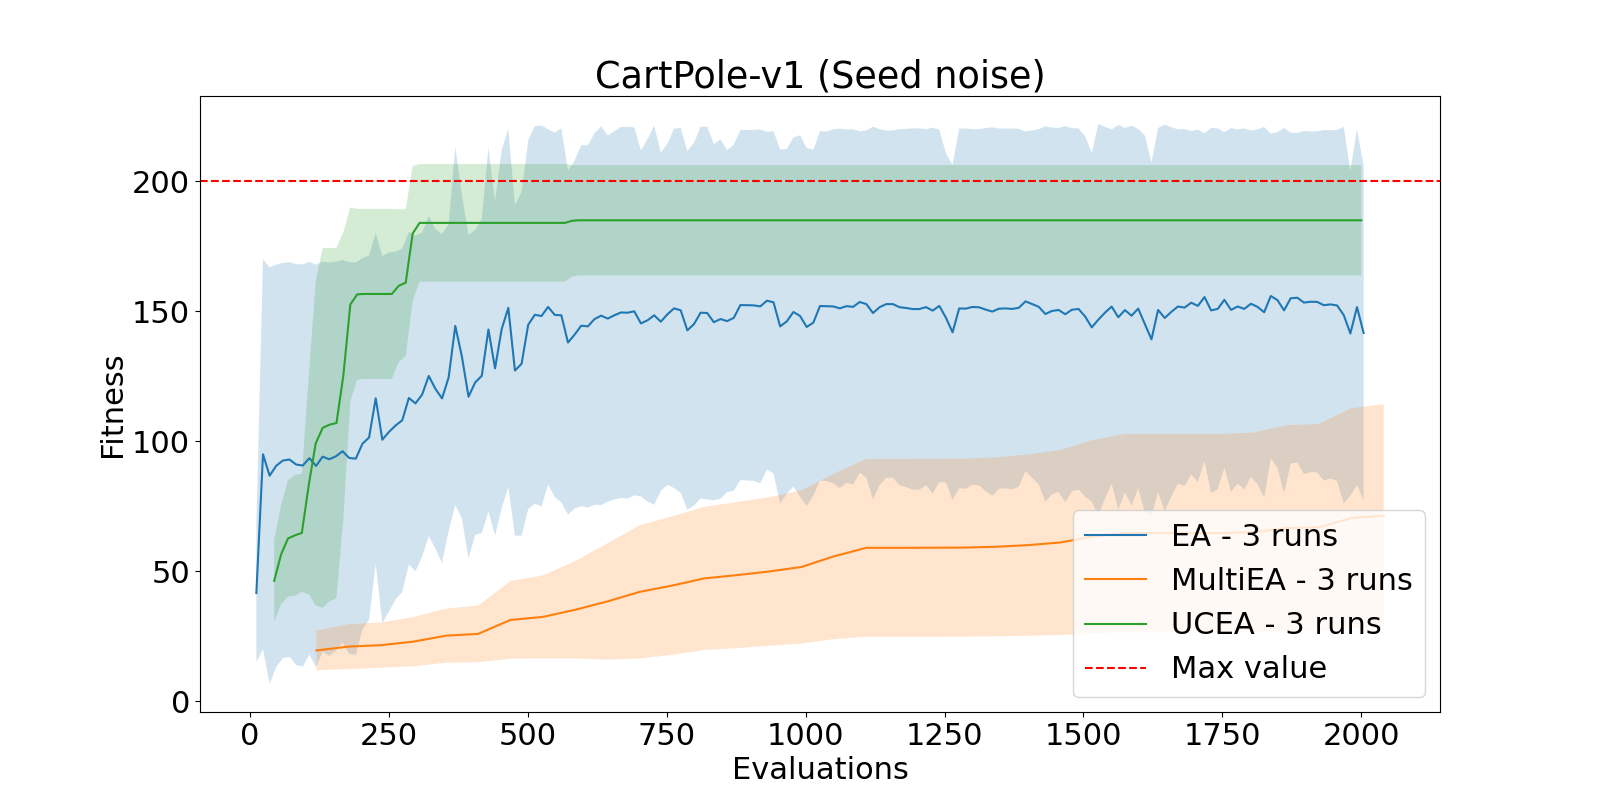
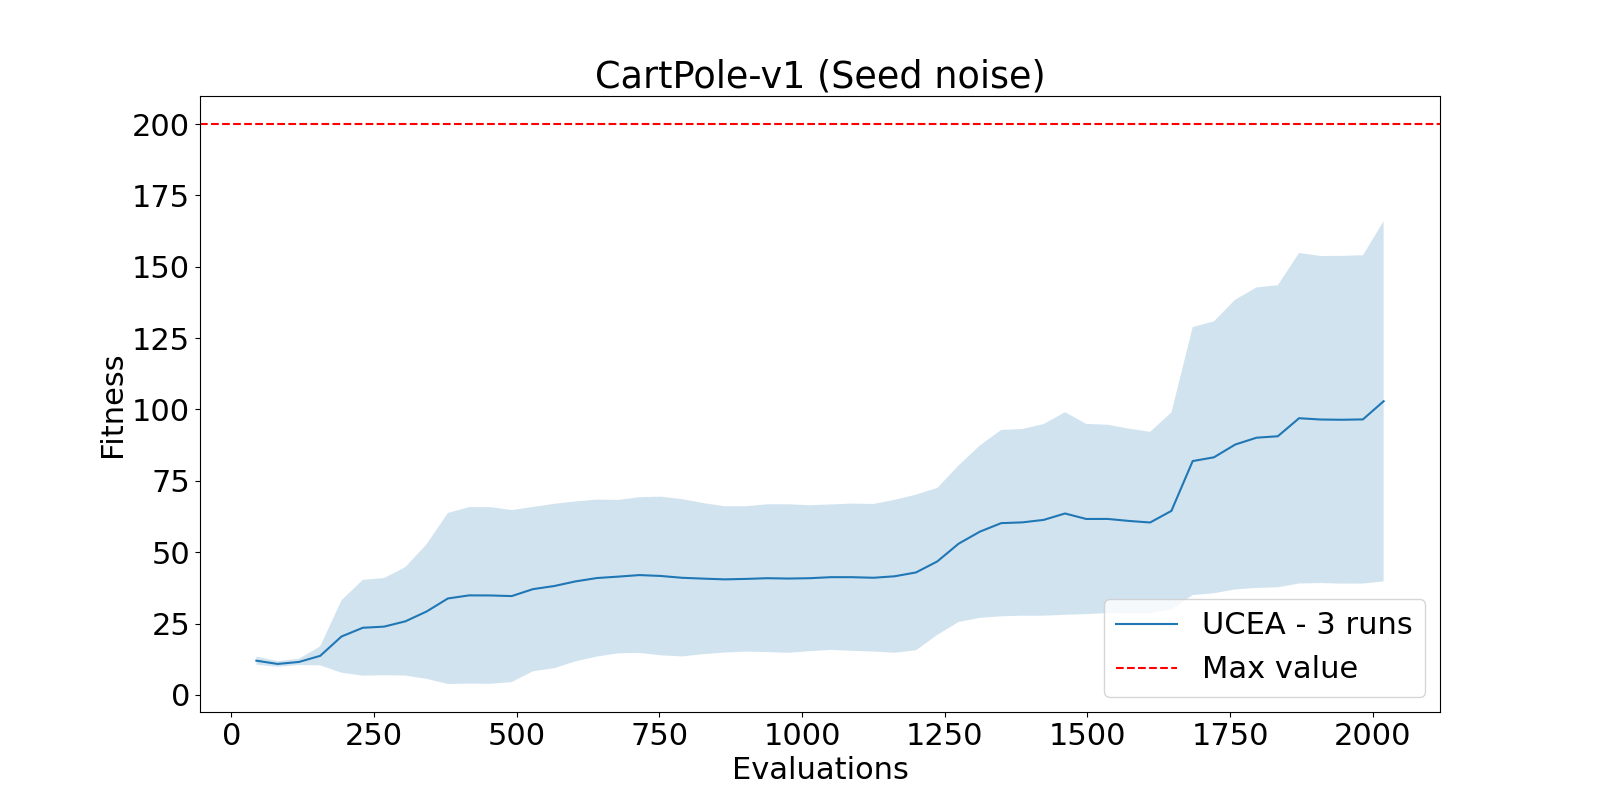
Dynamic scaling factor + new bounds

diff --git a/src/algos/population.py b/src/algos/population.py
@@ -8,6 +8,7 @@ class Population:
         self.agents = np.array([])
         self.sorted = False
         self.ind_type = BoolInd if args["bool_ind"] else Ind
+        self.scaling_factor = args["scaling_factor"] or 1.0
         
     def __repr__(self):
         s = "Population:\n"
@@ -35,18 +36,31 @@ class Population:
     
     def set_bounds(self, ind):
         u = ind.n_evals
-        t = ind.lifetime
+        u_0 = ind.u_g_0
+        t = ind.lifetime / 2 
         d = self.args["delta"]
         n = len(self.agents)
-        ind.beta = self.args["scaling_factor"] * np.sqrt(
-            np.log(1.25 * n * (t ** 4) / d) / (2.0 * u)
+        k = 1.2
+        a = 2
+        # ind.beta = self.args["scaling_factor"] * np.sqrt(
+        #     np.log(1.25 * n * (t ** 4) / d) / (2.0 * u)
+        # )
+        ind.beta = self.scaling_factor * np.sqrt(
+            np.log(
+                n * k * (t**a) * (u_0 + t) / d
+            ) / (2.0 * u)
         )
         return ind
-    
-    # def add_eval(self, ind, fit, noise):
-    #     ind.fitnesses.append(fit + noise)
-    #     ind.true_fitnesses.append(fit)
-    #     self.update()
+
+    def new_gen(self):
+        for i in self:
+            i.lifetime = 0
+            i.u_g_0 = i.n_evals
+            if len(i.fitnesses) > 0:
+                max_fit = np.max(i.fitnesses)
+                self.scaling_factor = max(self.scaling_factor, max_fit)
+        return self
+
     
     def update(self):
         for i in self.agents:

diff --git a/src/algos/ea.py b/src/algos/ea.py
@@ -200,6 +200,7 @@ class EA:
             self.logger("evaluations", self.total_evals)
             self.logger("fitness", f)
             self.logger("generation", self.gen)
+            self.logger("scaling factor", self.pop.scaling_factor)
             # Add validation step
             if self.args["val_freq"]> 0 and self.gen % self.args["val_freq"] == 0:
                 self.get_validation(log=True)

diff --git a/src/algos/ucea.py b/src/algos/ucea.py
@@ -13,6 +13,7 @@ class UCEA(EA):
     
     def step(self):
         if self.gen > 0:
+            self.pop.new_gen()
             self.update()
         gen_evals = self.evaluate_children()
         while gen_evals < self.args["max_eval"]:

diff --git a/src/algos/ind.py b/src/algos/ind.py
@@ -20,6 +20,7 @@ class Ind:
         self.fitnesses = []
         self.true_fitnesses = []
         self.lifetime = 0
+        self.u_g_0 = 0
         self.beta = np.inf
         
     @property
